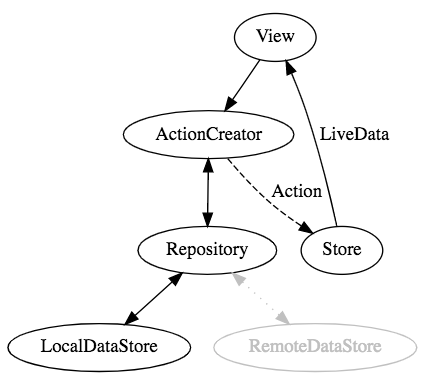
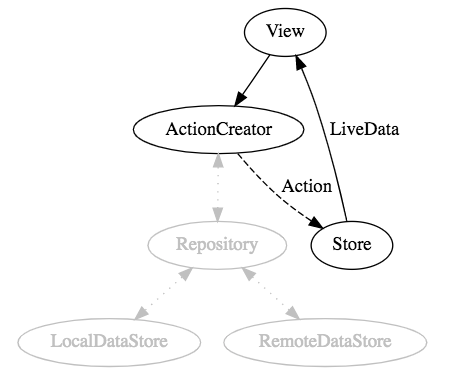
readme.mdを更新

diff --git a/readme.md b/readme.md
@@ -10,17 +10,43 @@ https://play.google.com/store/apps/details?id=jp.bellware.echo
 
 # アプリ詳細
 
-録音音声が小さい場合も再生時は適切なボリュームに変換して再生します。
+録音音声が小さい場合も適切なボリュームに変換して再生します。
 
 ボタン操作、音声の録音再生に対して、インタラクティブなエフェクトを実装しています。
 
-TODO gifアニメ
+<img src="https://github.com/tfandkusu/quickecho/blob/master/images/interactive.gif?raw=true" width="320px">
 
-# 内部構成
+# 内部設計
 
-TODO
+[DroidKaigi/conference-app-2019](https://github.com/DroidKaigi/conference-app-2019)を参考にしたFlux設計になっています。
+
+<img src="https://github.com/tfandkusu/quickecho/blob/master/images/flux.png?raw=true">
+
+ボタンが押される等のユーザ操作が行われるとActionCreatorのメソッドが呼ばれます。ActionCreatorは処理の途中経過や結果をActionとして発行します。StoreはActionを受け取り、内容に応じてLiveDataを変更します。ActivityはLiveDataを監視し、内容に応じて表示や音声デバイス制御を行います。
+
+このアプリはAPI呼び出しやファイル書き込みがまだ無いため、ActionCreatorがそれに使用するRepositoryとその具体的実装になるDataStoreがまだ無いです。
+
+## メイン画面View層の設計
+
+<img src="https://github.com/tfandkusu/quickecho/blob/master/images/MainActivity.png?raw=true">
+
+このアプリは音声の録音再生、インタラクティブなエフェクトなどView層が大きいため、役割別にViewHelperに処理を分けています。
+
+- RecordViewHelper 音声の録音
+- PlayViewHelper 音声の再生
+- SoundEffectViewHelper 効果音の再生
+- VisualVolumeViewHelper 音量に合わせて大小が変わる円のエフェクト
+- AnimatorViewHelper ボタンと中心にある状態表示の表示非表示アニメーション
+- TimerViewHelper 最大録音時間の管理
+
+RecordViewHelperとPlayViewHelperはメモリに音声を保存して再生時に読み出すために、お互いシングルインスタンスなSoundLocalDataStoreを持っています。
 
 # 使用技術
 
-TODO
-
+- [Kotlin Coroutine](https://github.com/Kotlin/kotlinx.coroutines) 音声の録音と再生を除く非同期処理全般で使用しています。
+- [Koin](https://insert-koin.io/) DIコンテナです。
+- [MockK](https://mockk.io/) 単体テストの時に依存するクラスをモック化しています。
+- [KotlinTest](https://github.com/kotlintest/kotlintest) 単体テストの時に `actual shouldBe expected` のように中間値表記で検証ができます。
+- [Material Components](https://material.io/components/) [Floating Action Button](https://material.io/develop/android/components/floating-action-button/)と[CardView](https://material.io/develop/android/components/material-card-view/)の実装に使用しています。
+- [ConstraintLayout](https://developer.android.com/reference/androidx/constraintlayout/widget/ConstraintLayout.html)
+- [EventBus](https://github.com/greenrobot/EventBus) FluxのDispatcherの実装に使っています。
